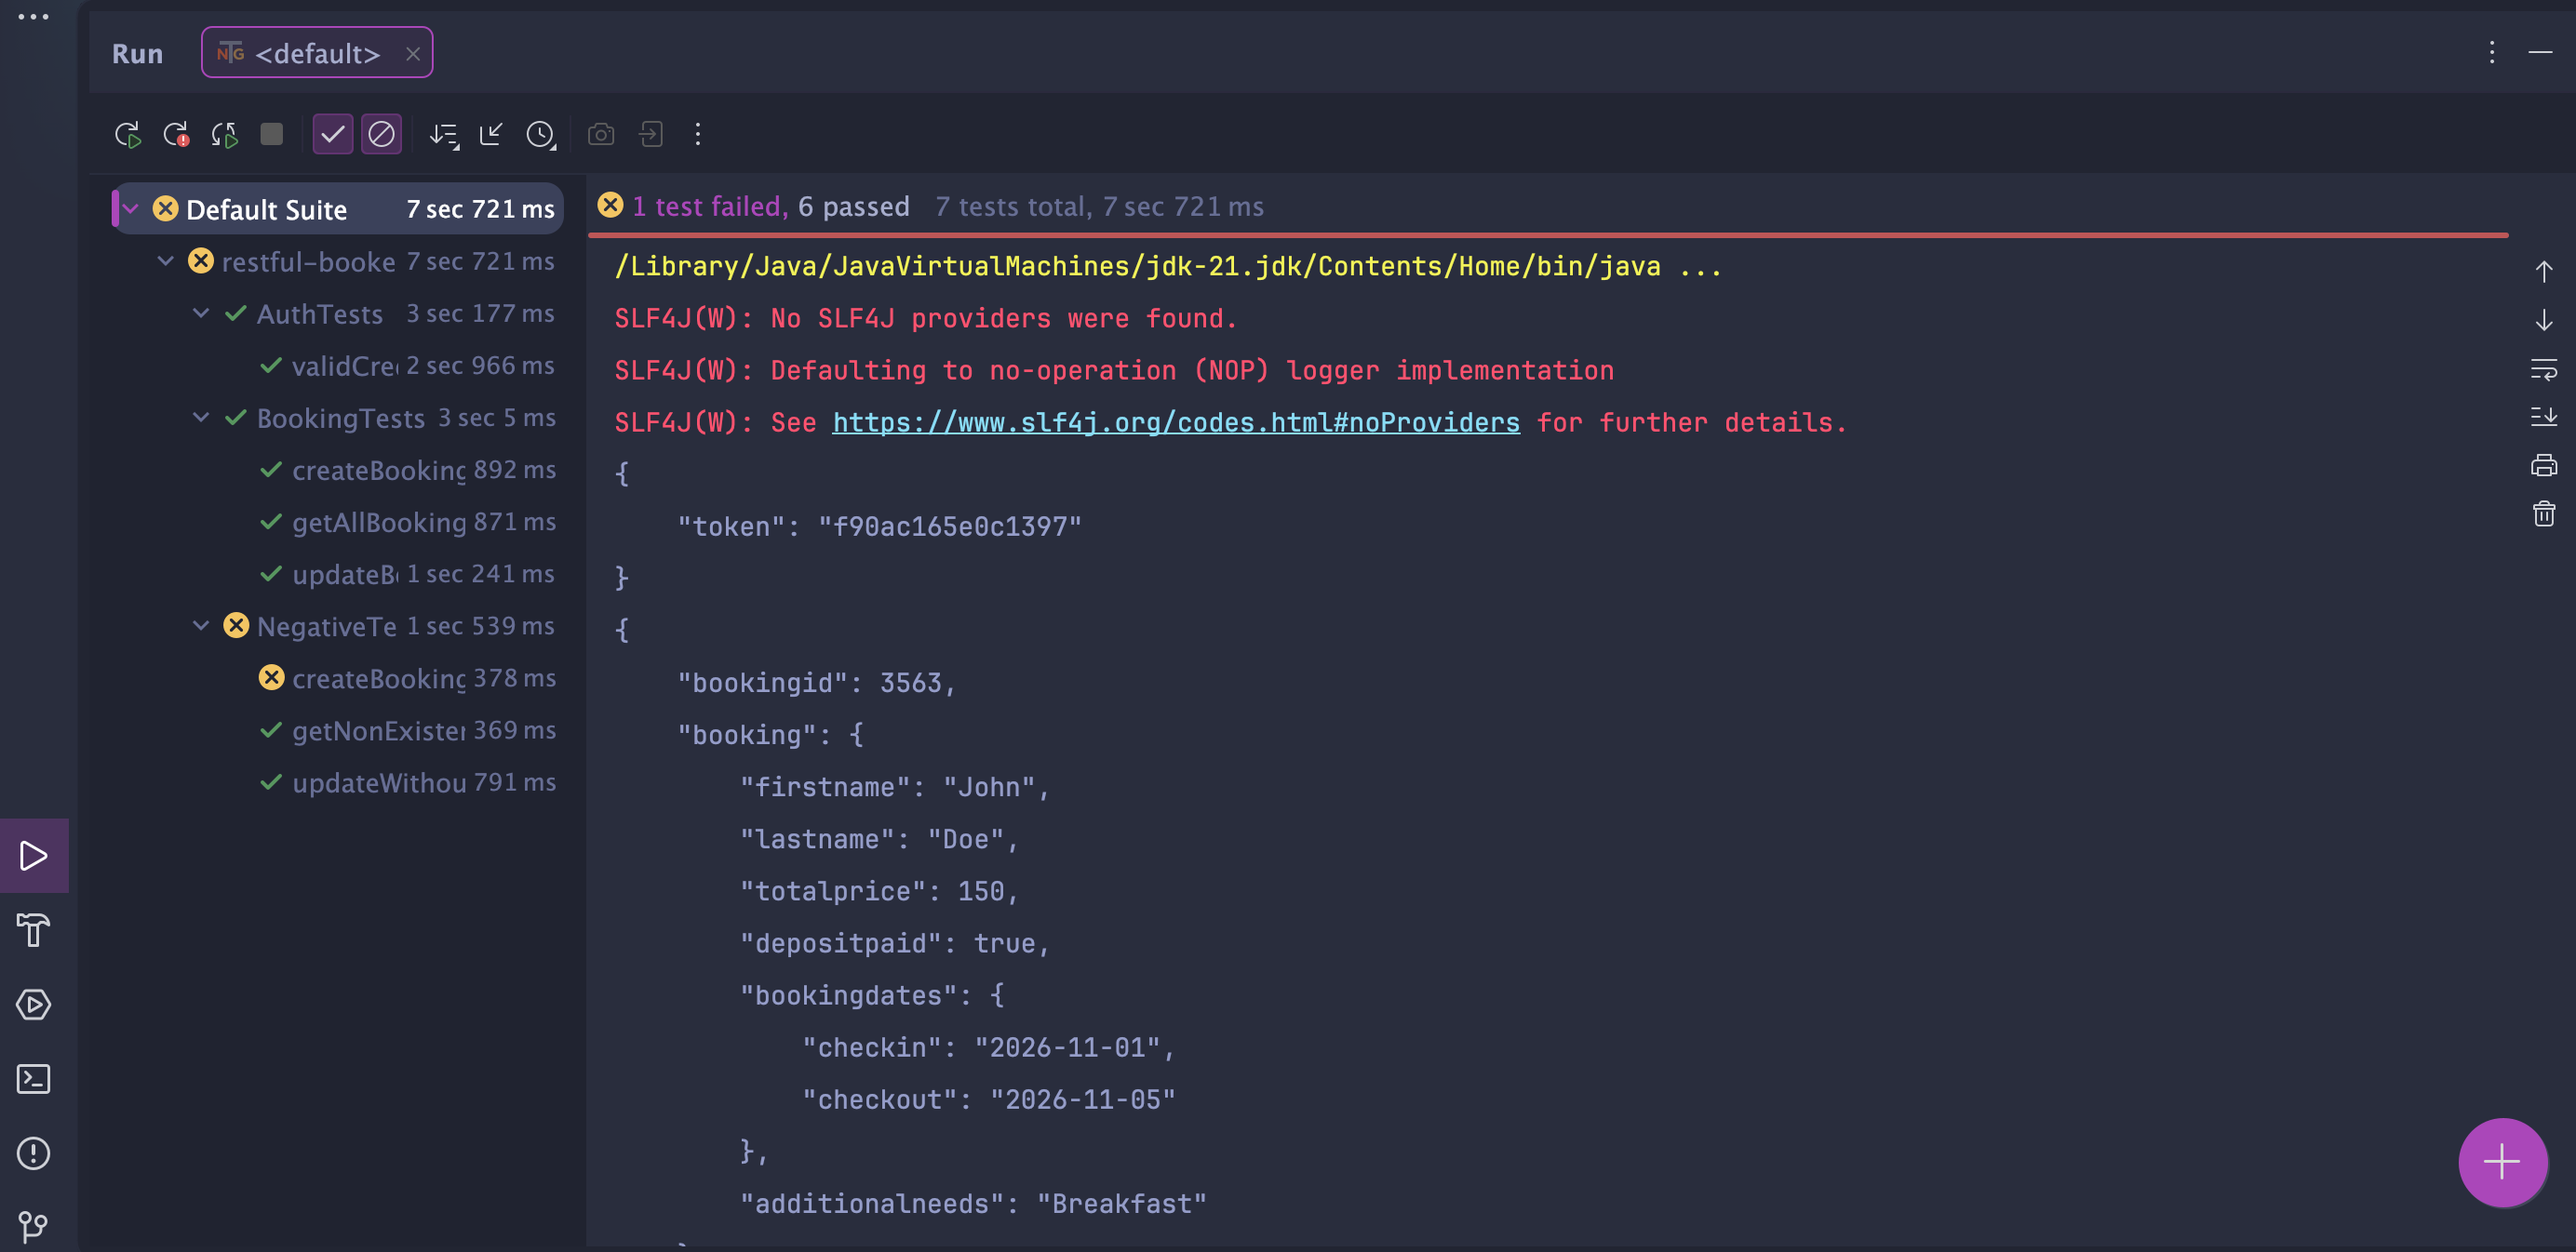
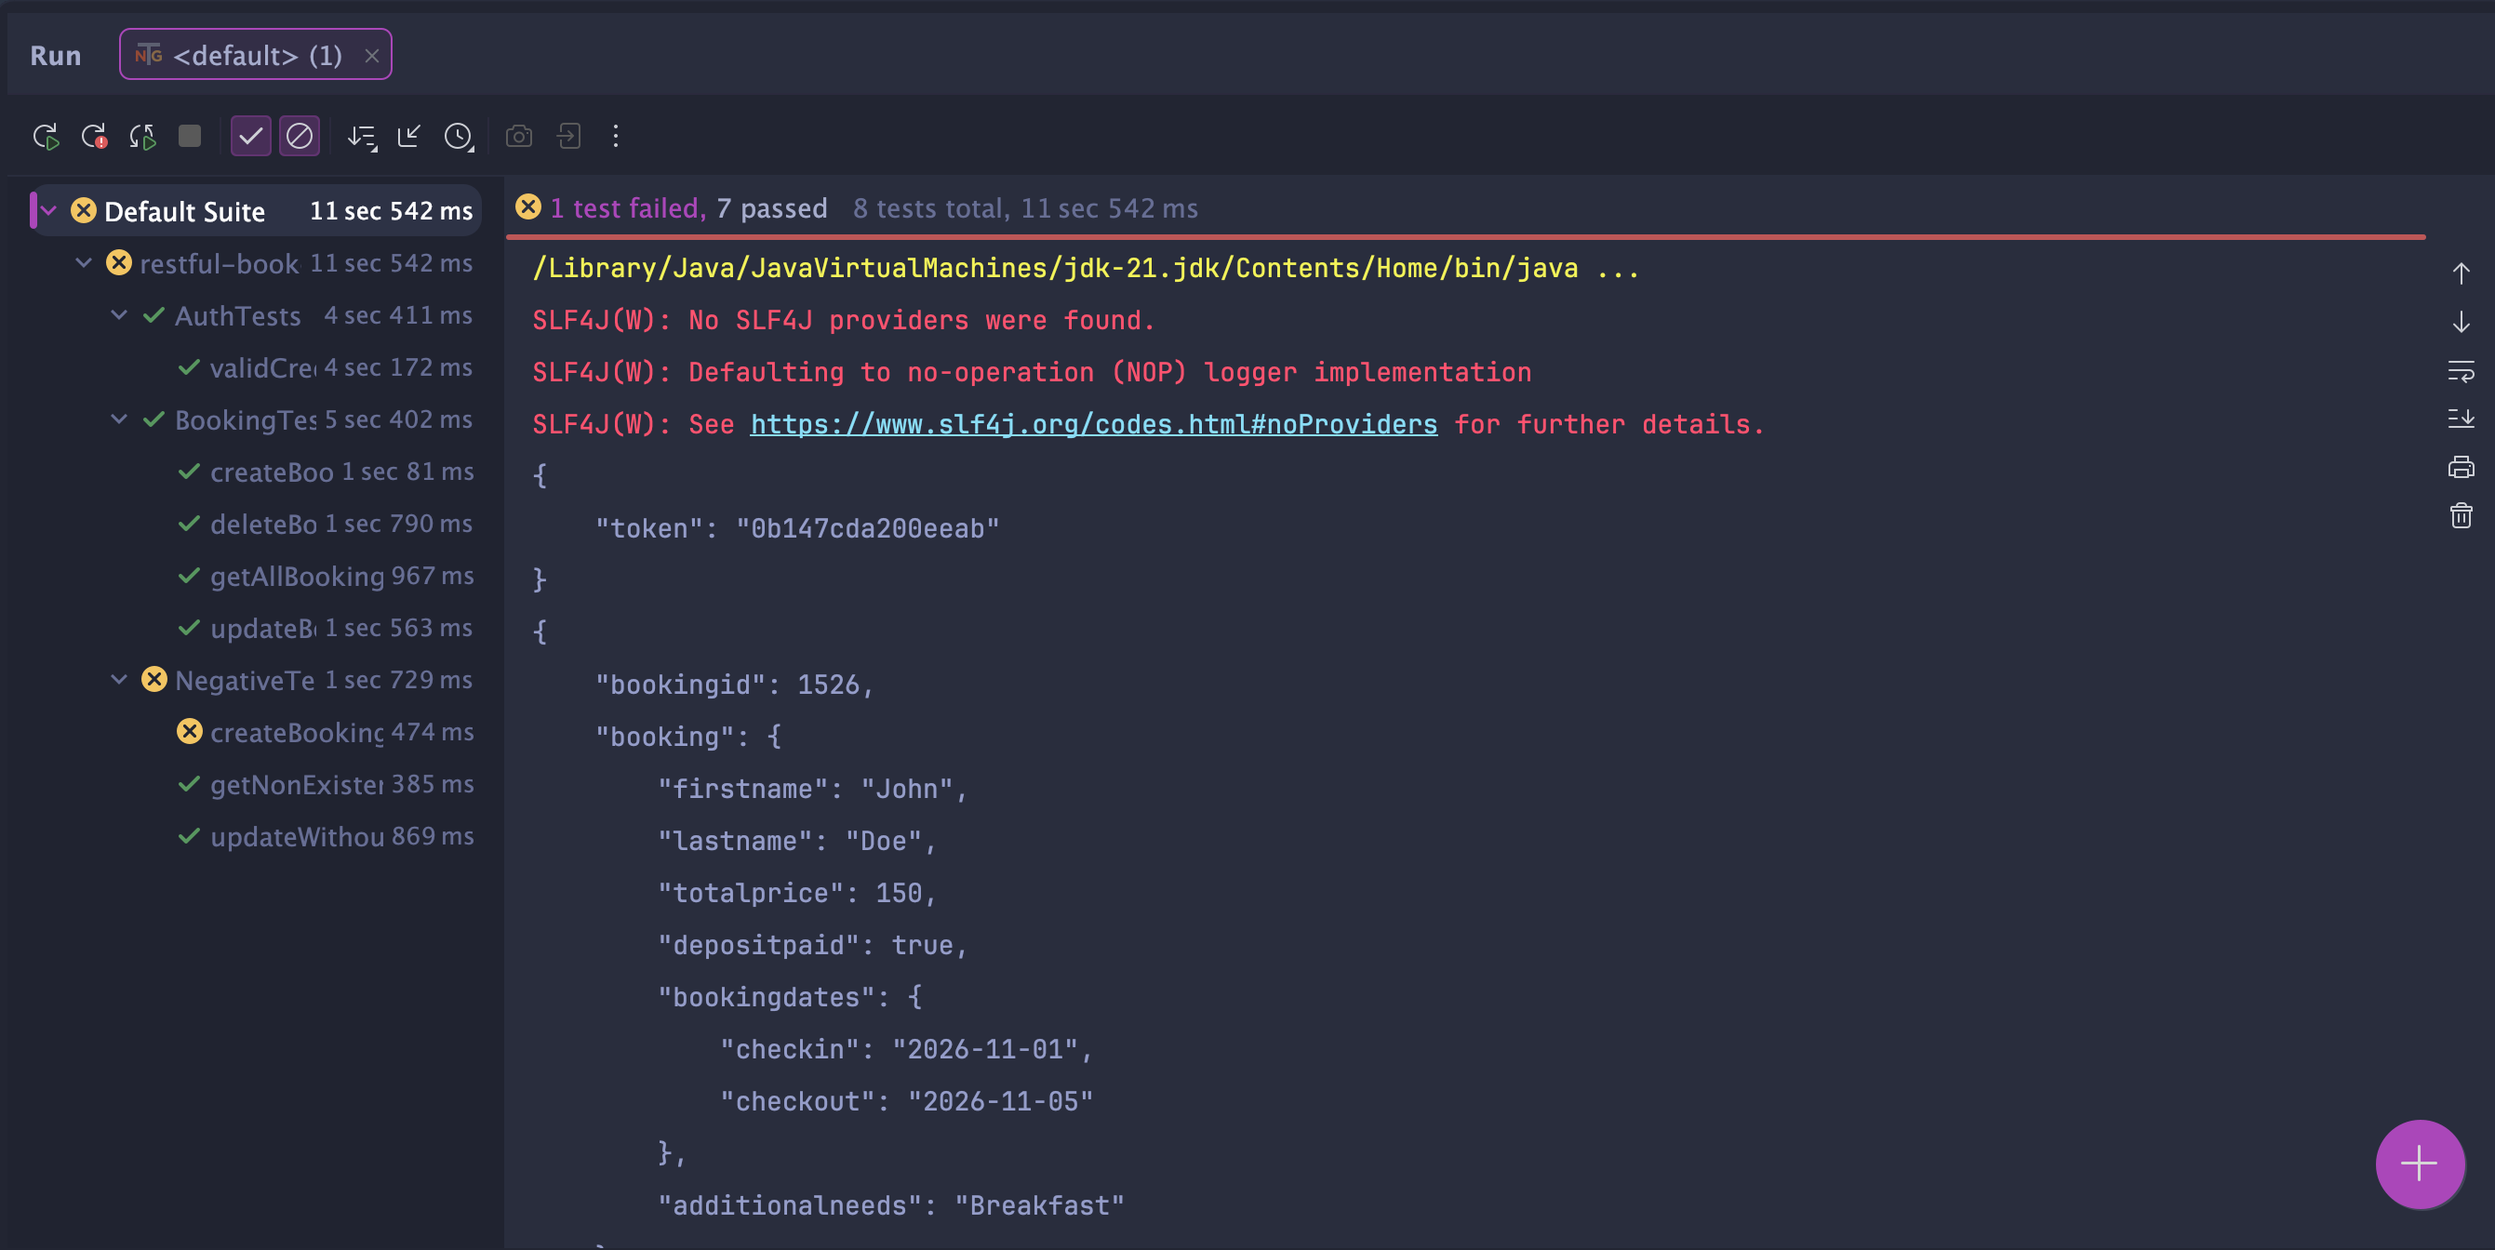
Add delete test and update screenshot

diff --git a/src/test/java/tests/BookingTests.java b/src/test/java/tests/BookingTests.java
@@ -66,4 +66,28 @@ public class BookingTests extends BaseTest {
                 .body("totalprice", equalTo(200))
                 .body("additionalneeds", equalTo("Dinner"));
     }
+
+    @Test
+    public void deleteBookingRemovesIt() {
+        BookingDates dates = new BookingDates("2026-11-01", "2026-11-05");
+        int bookingId = createBooking(new Booking(
+                "John", "Doe", 150, true, dates, "Breakfast"));
+        String token = getToken();
+
+        // delete the booking
+        given()
+                .cookie("token", token)
+                .pathParam("id", bookingId)
+                .when()
+                .delete("/booking/{id}")
+                .then()
+                .statusCode(201);
+
+        given()
+                .pathParam("id", bookingId)
+                .when()
+                .get("/booking/{id}")
+                .then()
+                .statusCode(404);
+    }
 }
